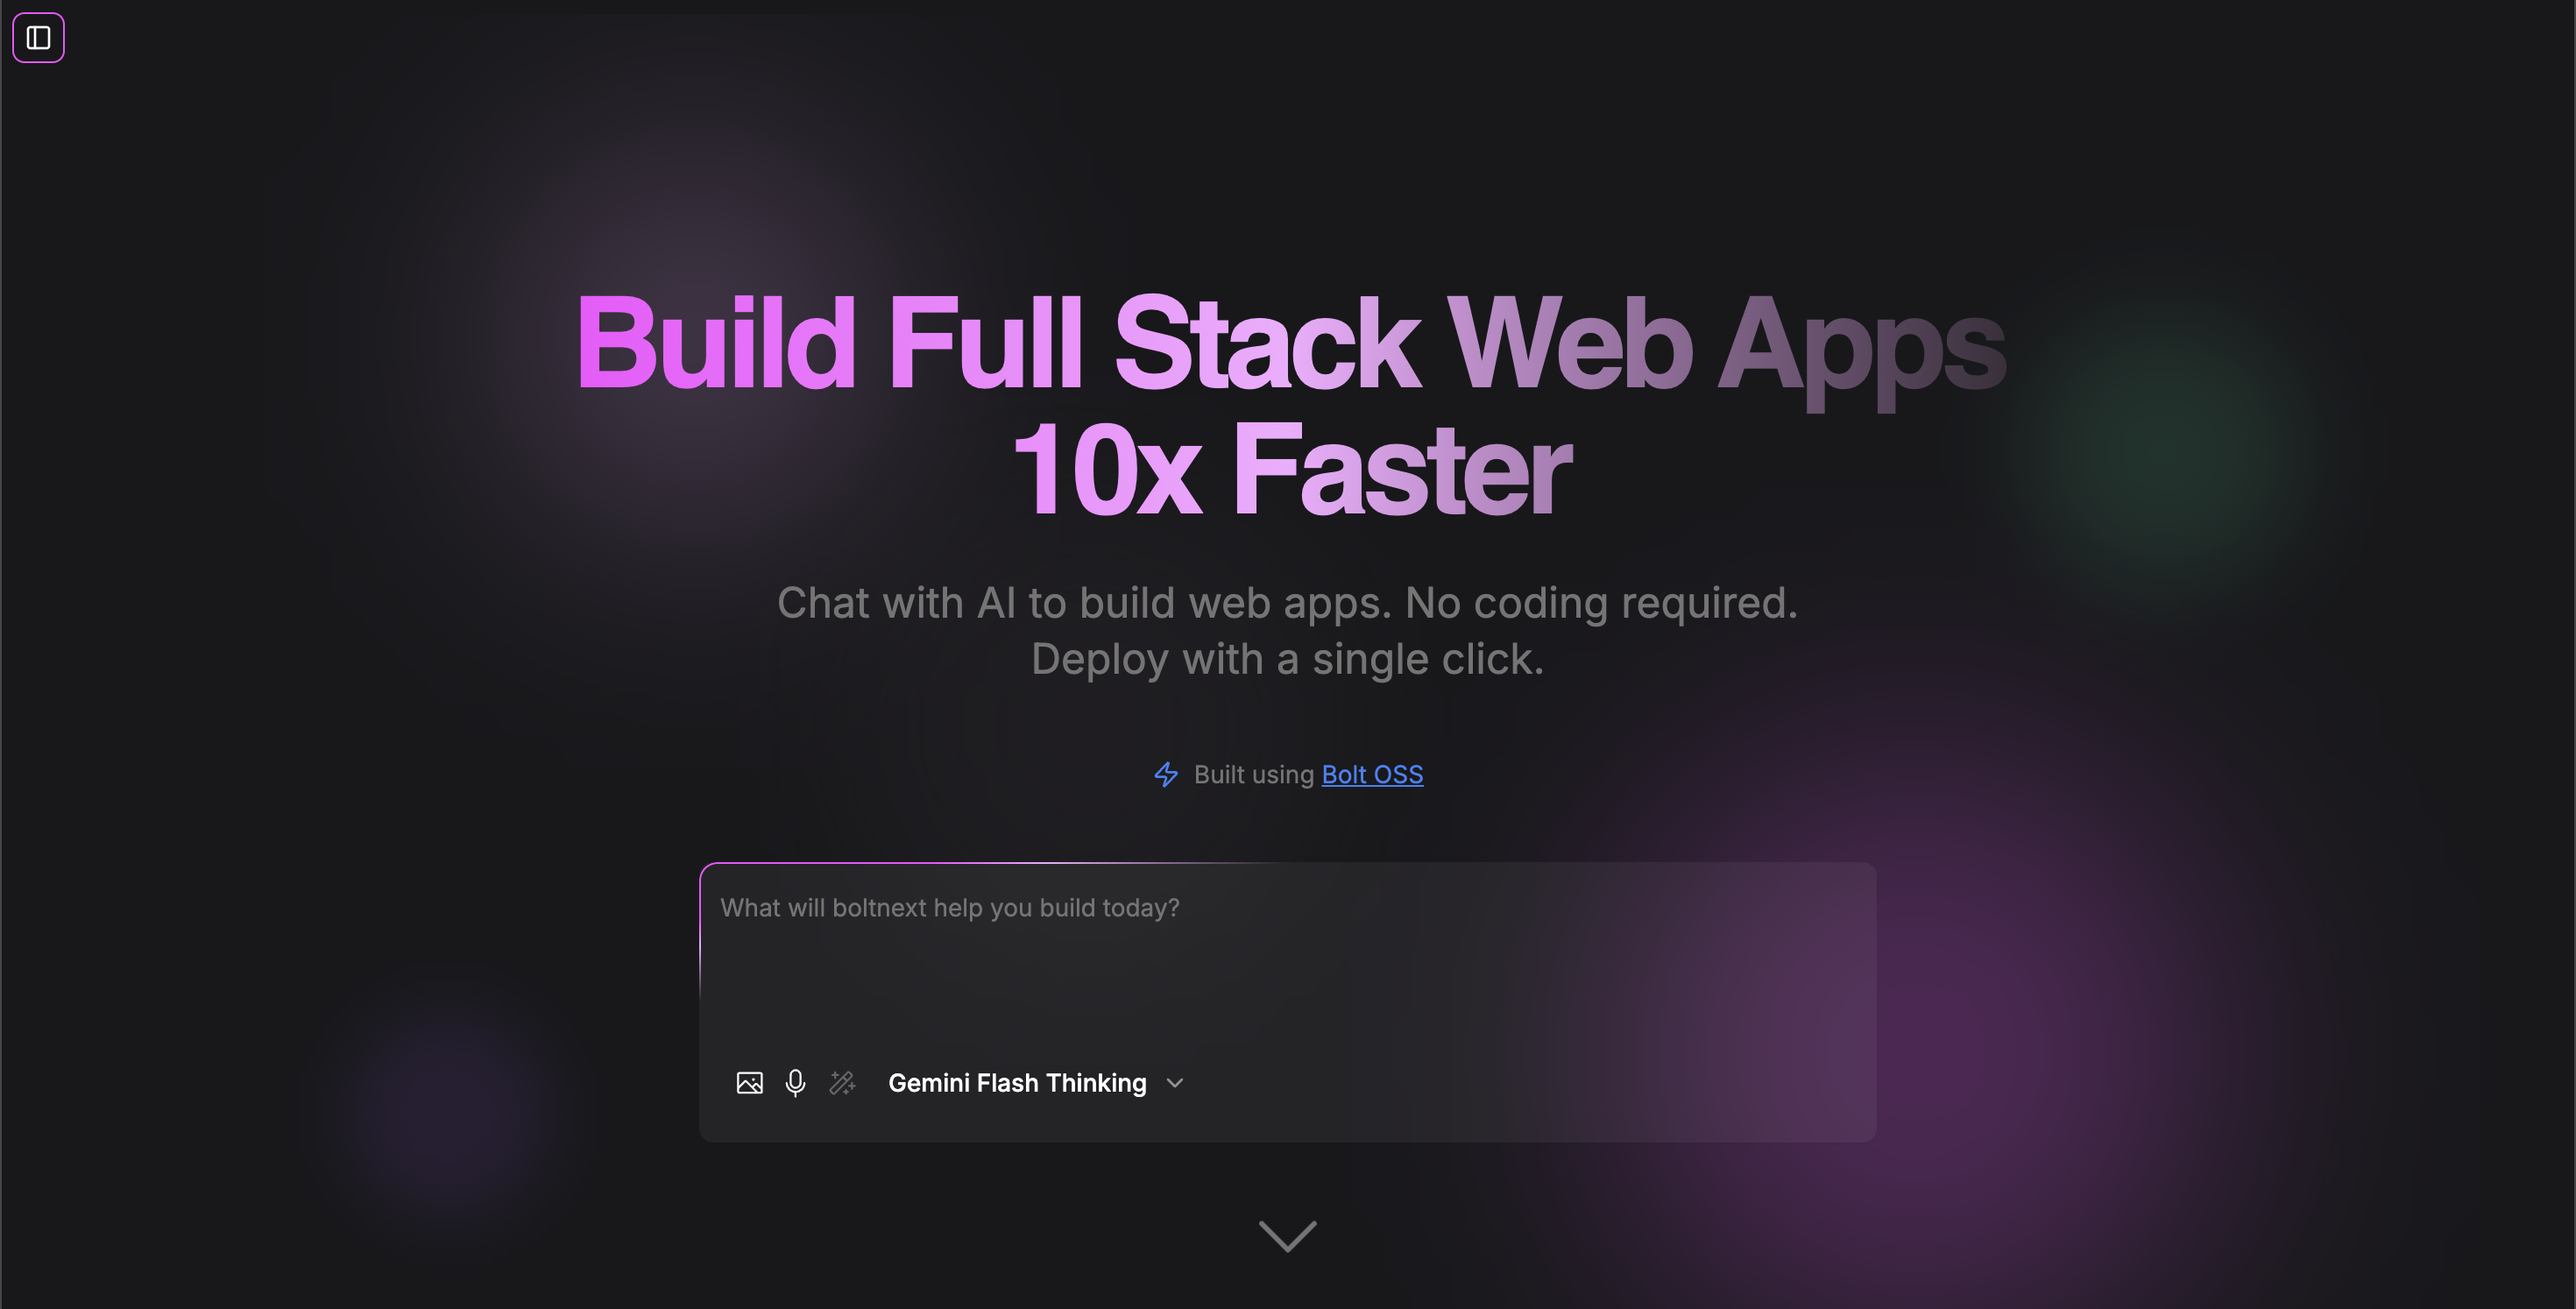
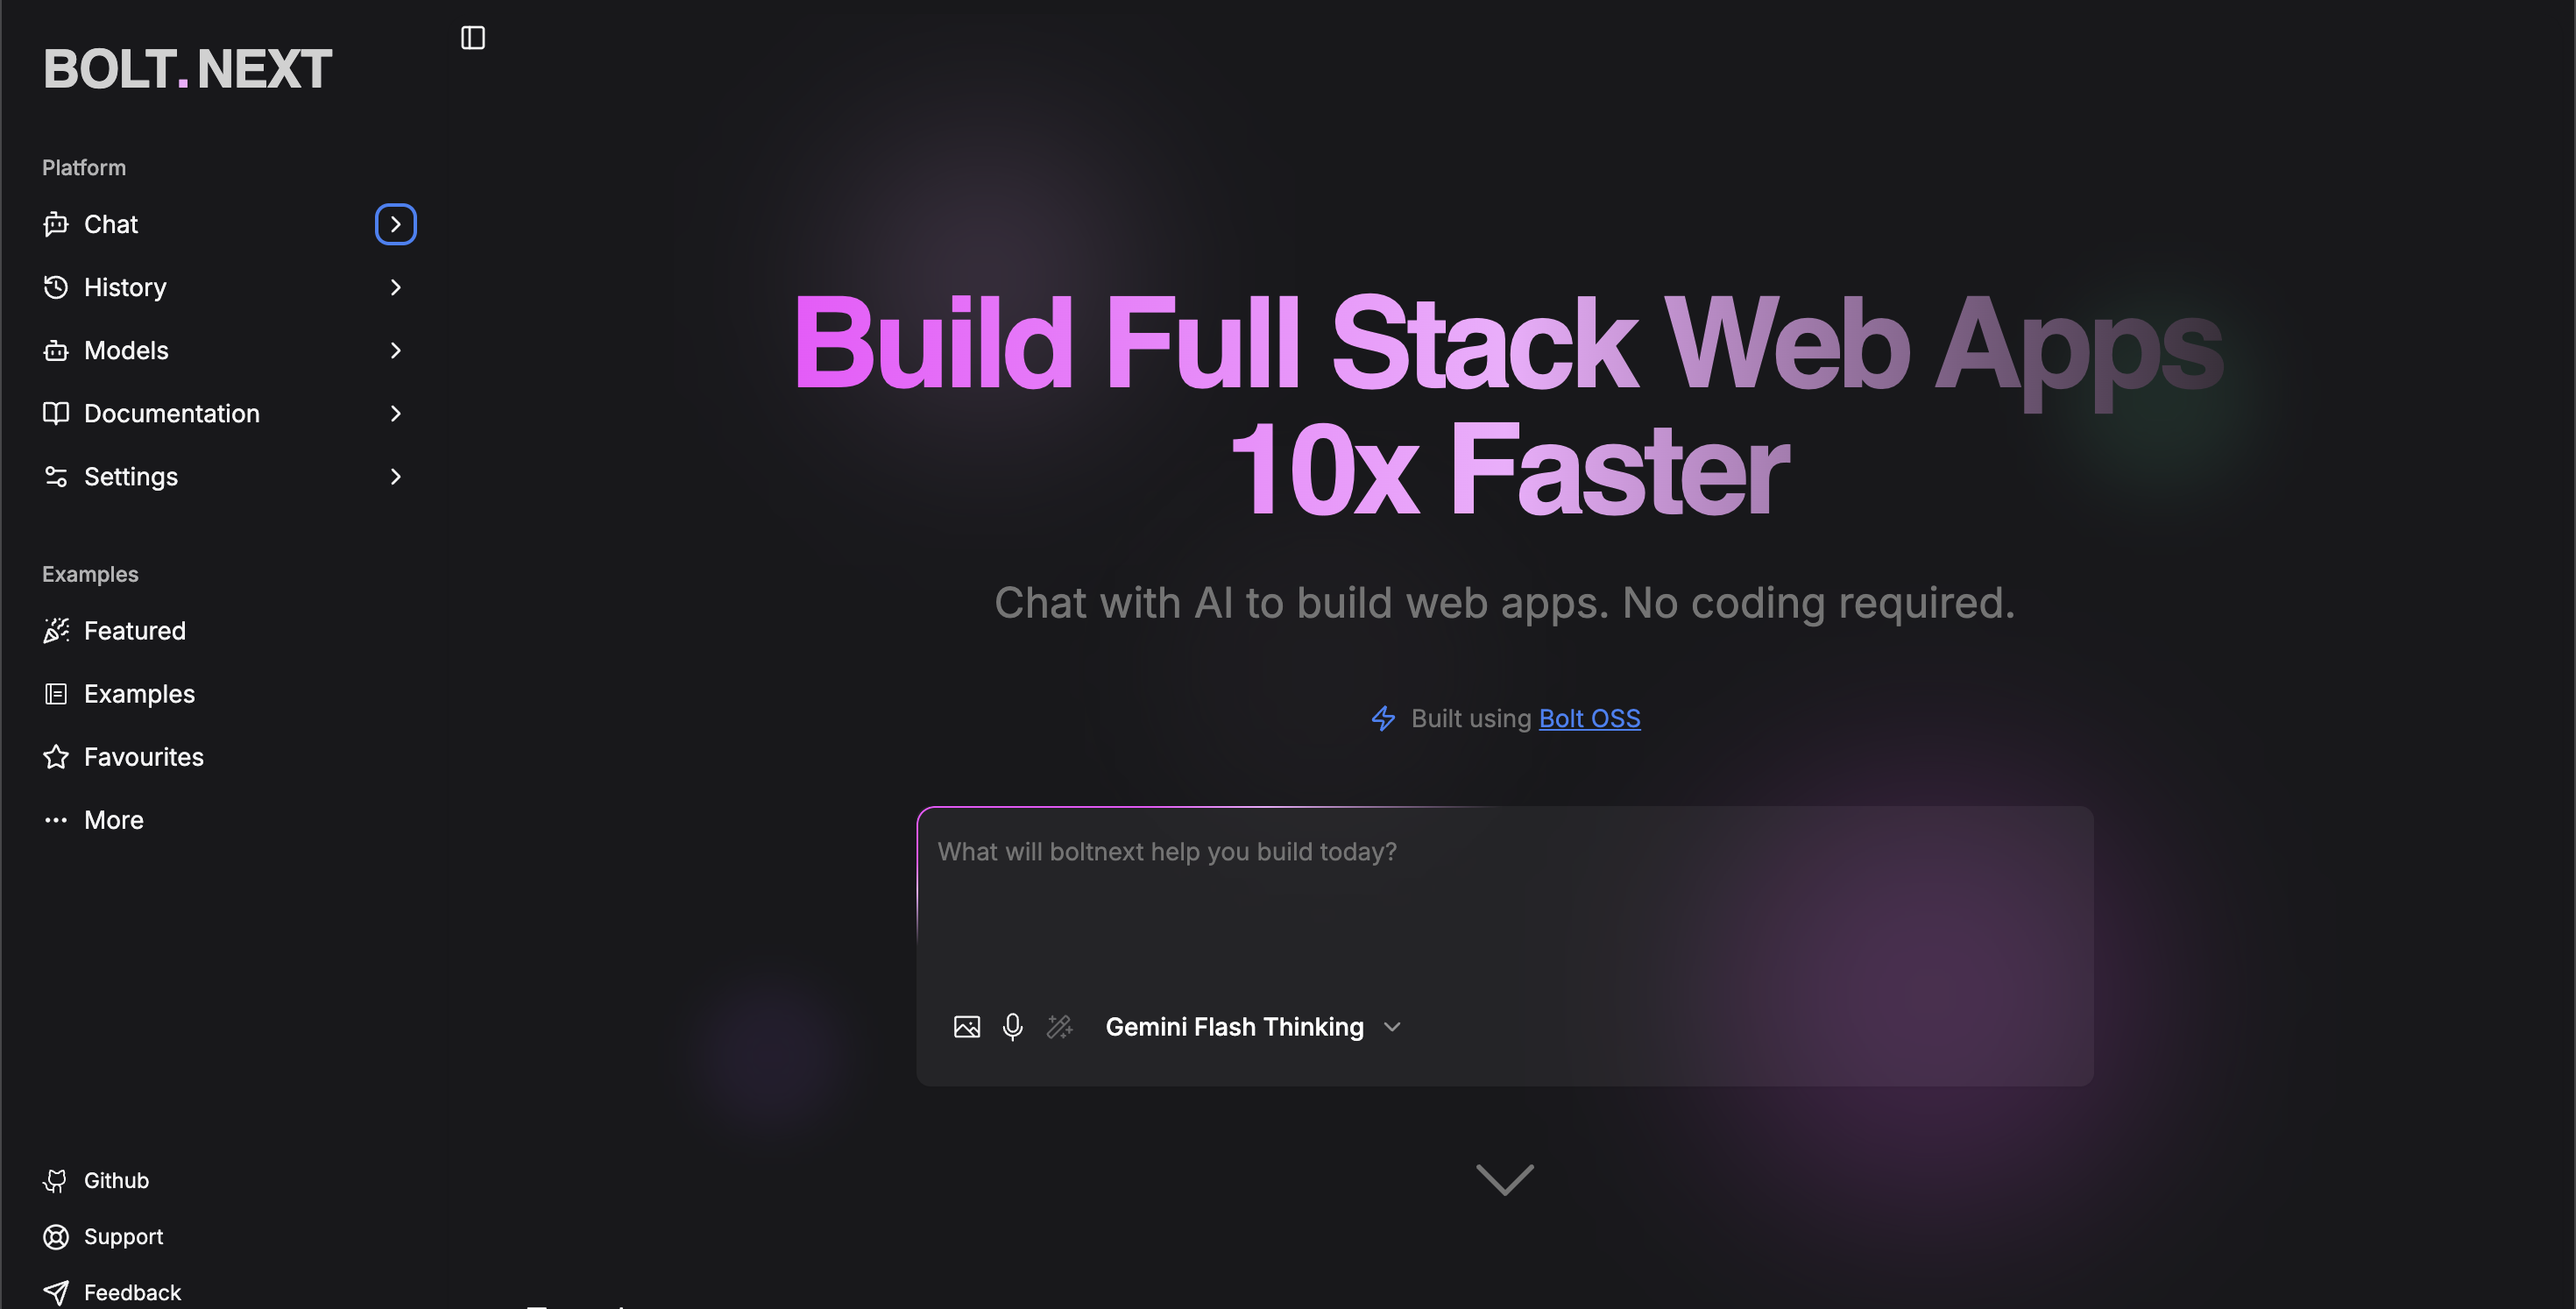
add: new screenshot image and chat intro message

diff --git a/components/chat/ChatIntro.tsx b/components/chat/ChatIntro.tsx
@@ -49,7 +49,7 @@ export const ChatIntro: React.FC = () => {
           className="text-xl md:text-2xl text-gray-600 dark:text-muted mb-10 max-w-3xl mx-auto"
           variants={itemVariants}
         >
-          Chat with AI to build web apps. No coding required.<br></br> Deploy with a single click.
+          Chat with AI to build web apps. No coding required.
         </motion.p>
 
         <motion.div 
